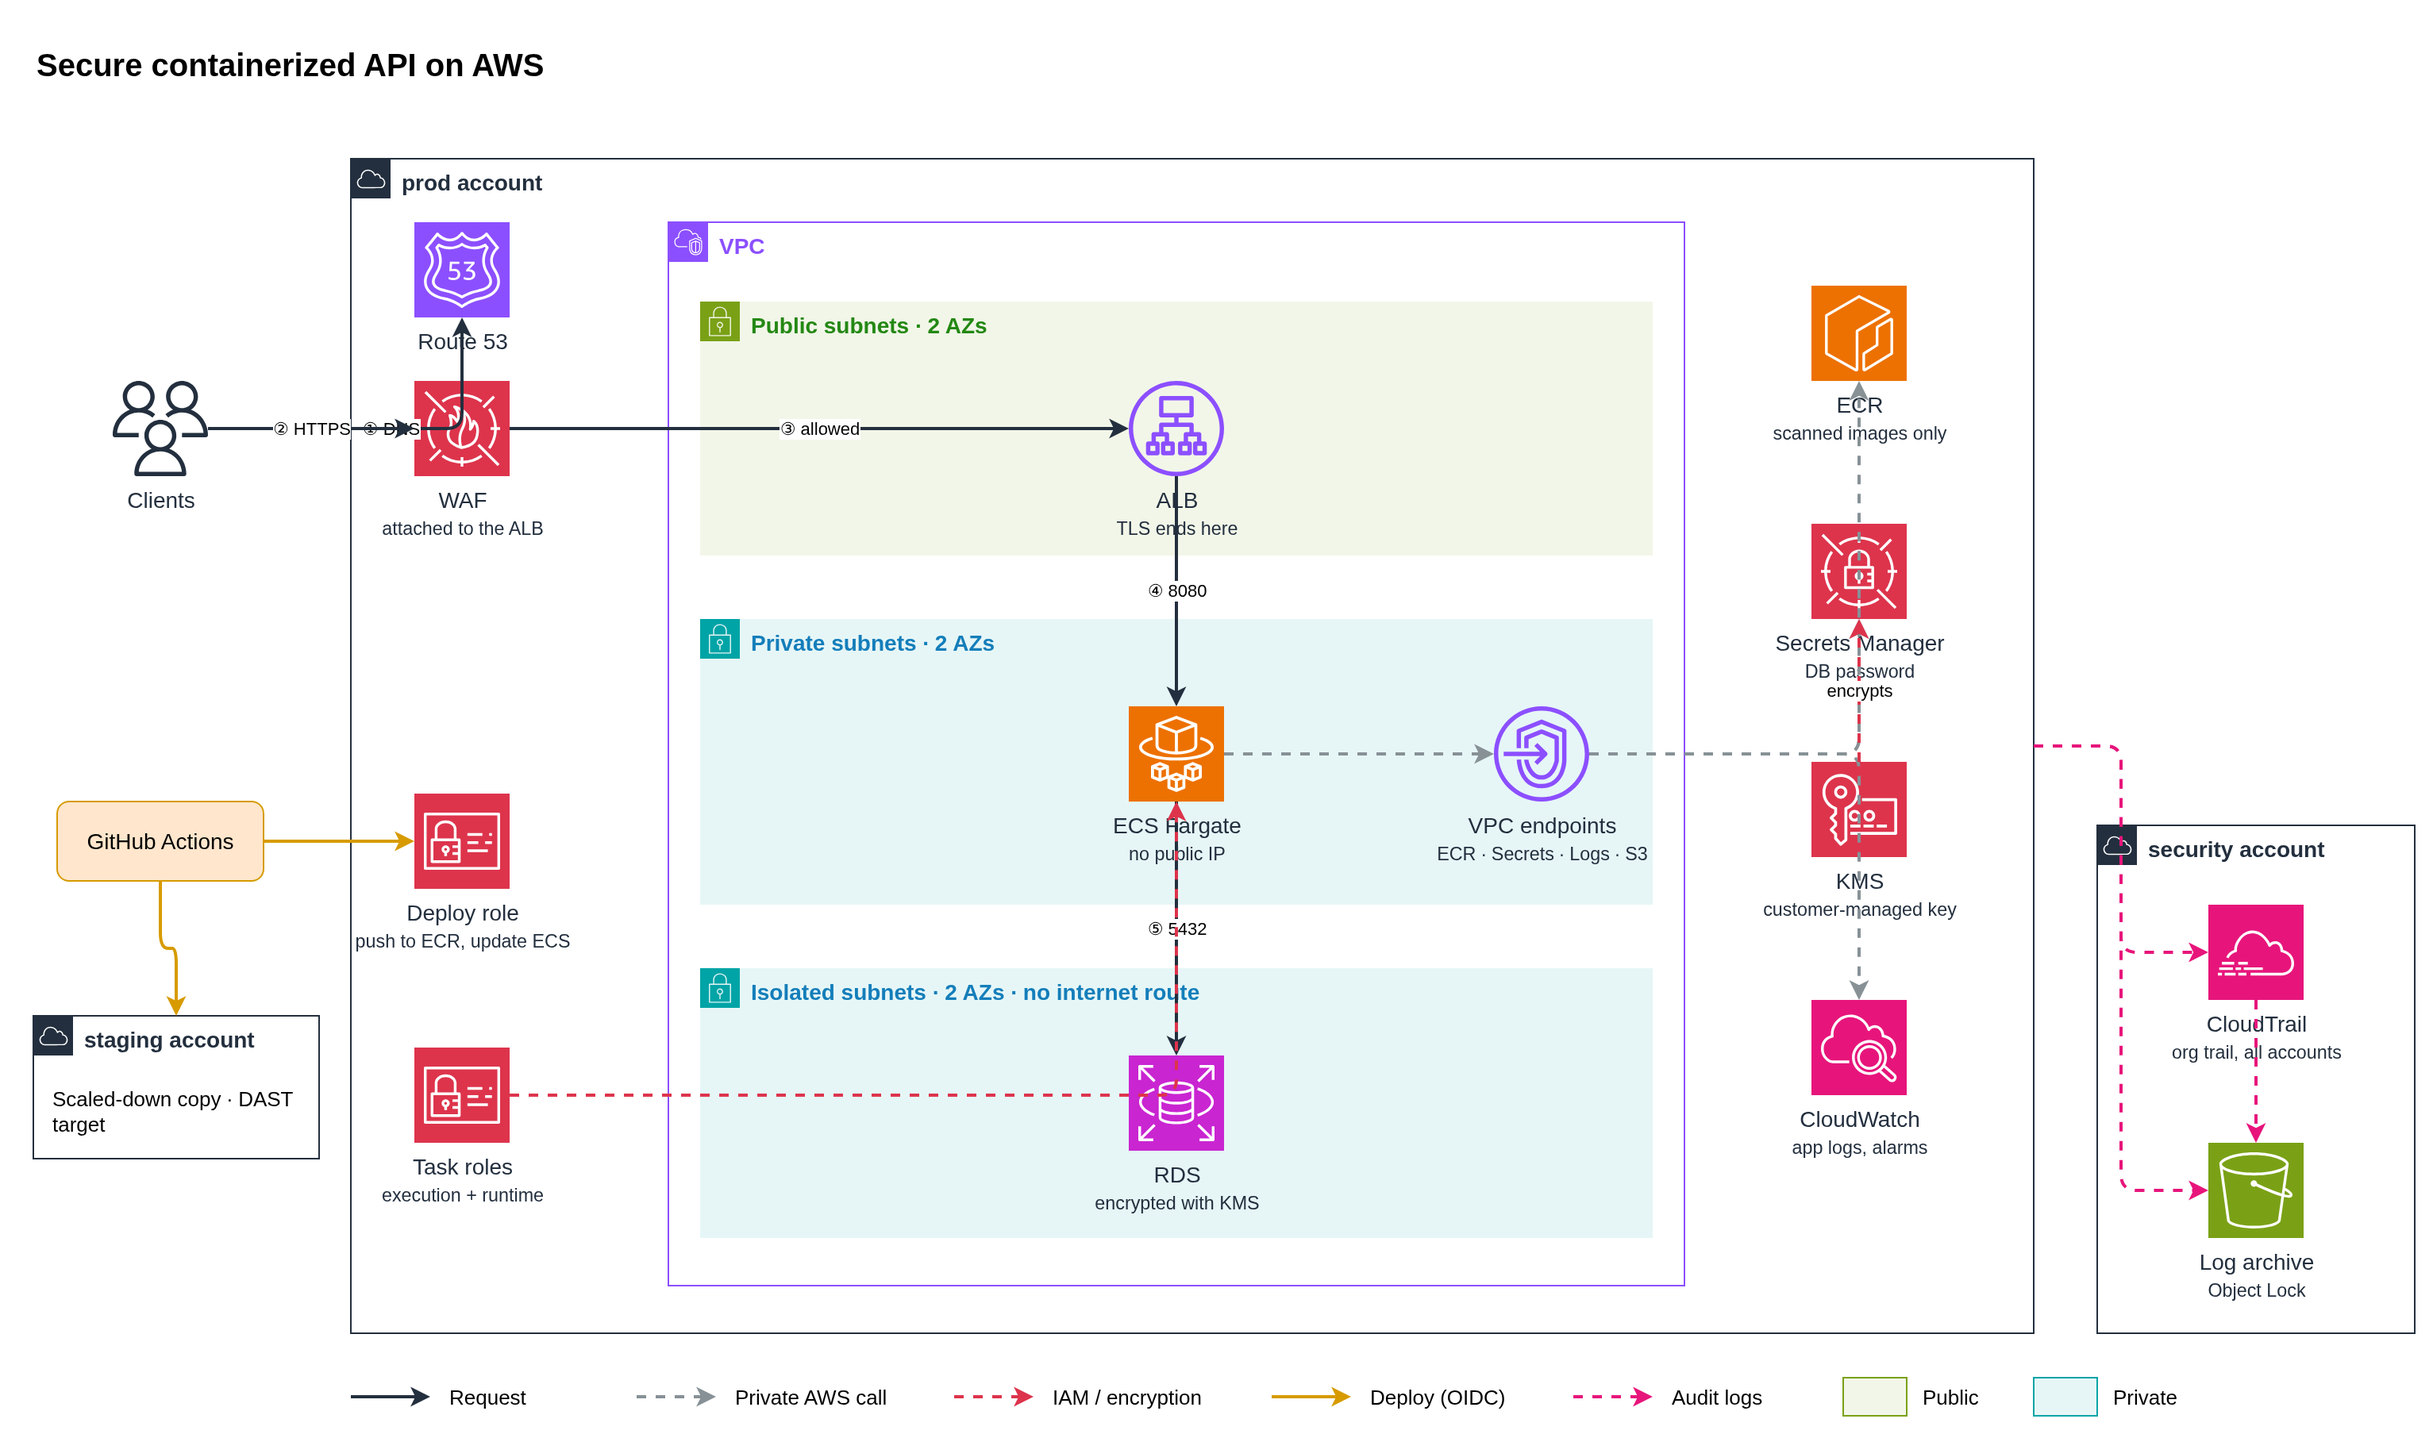
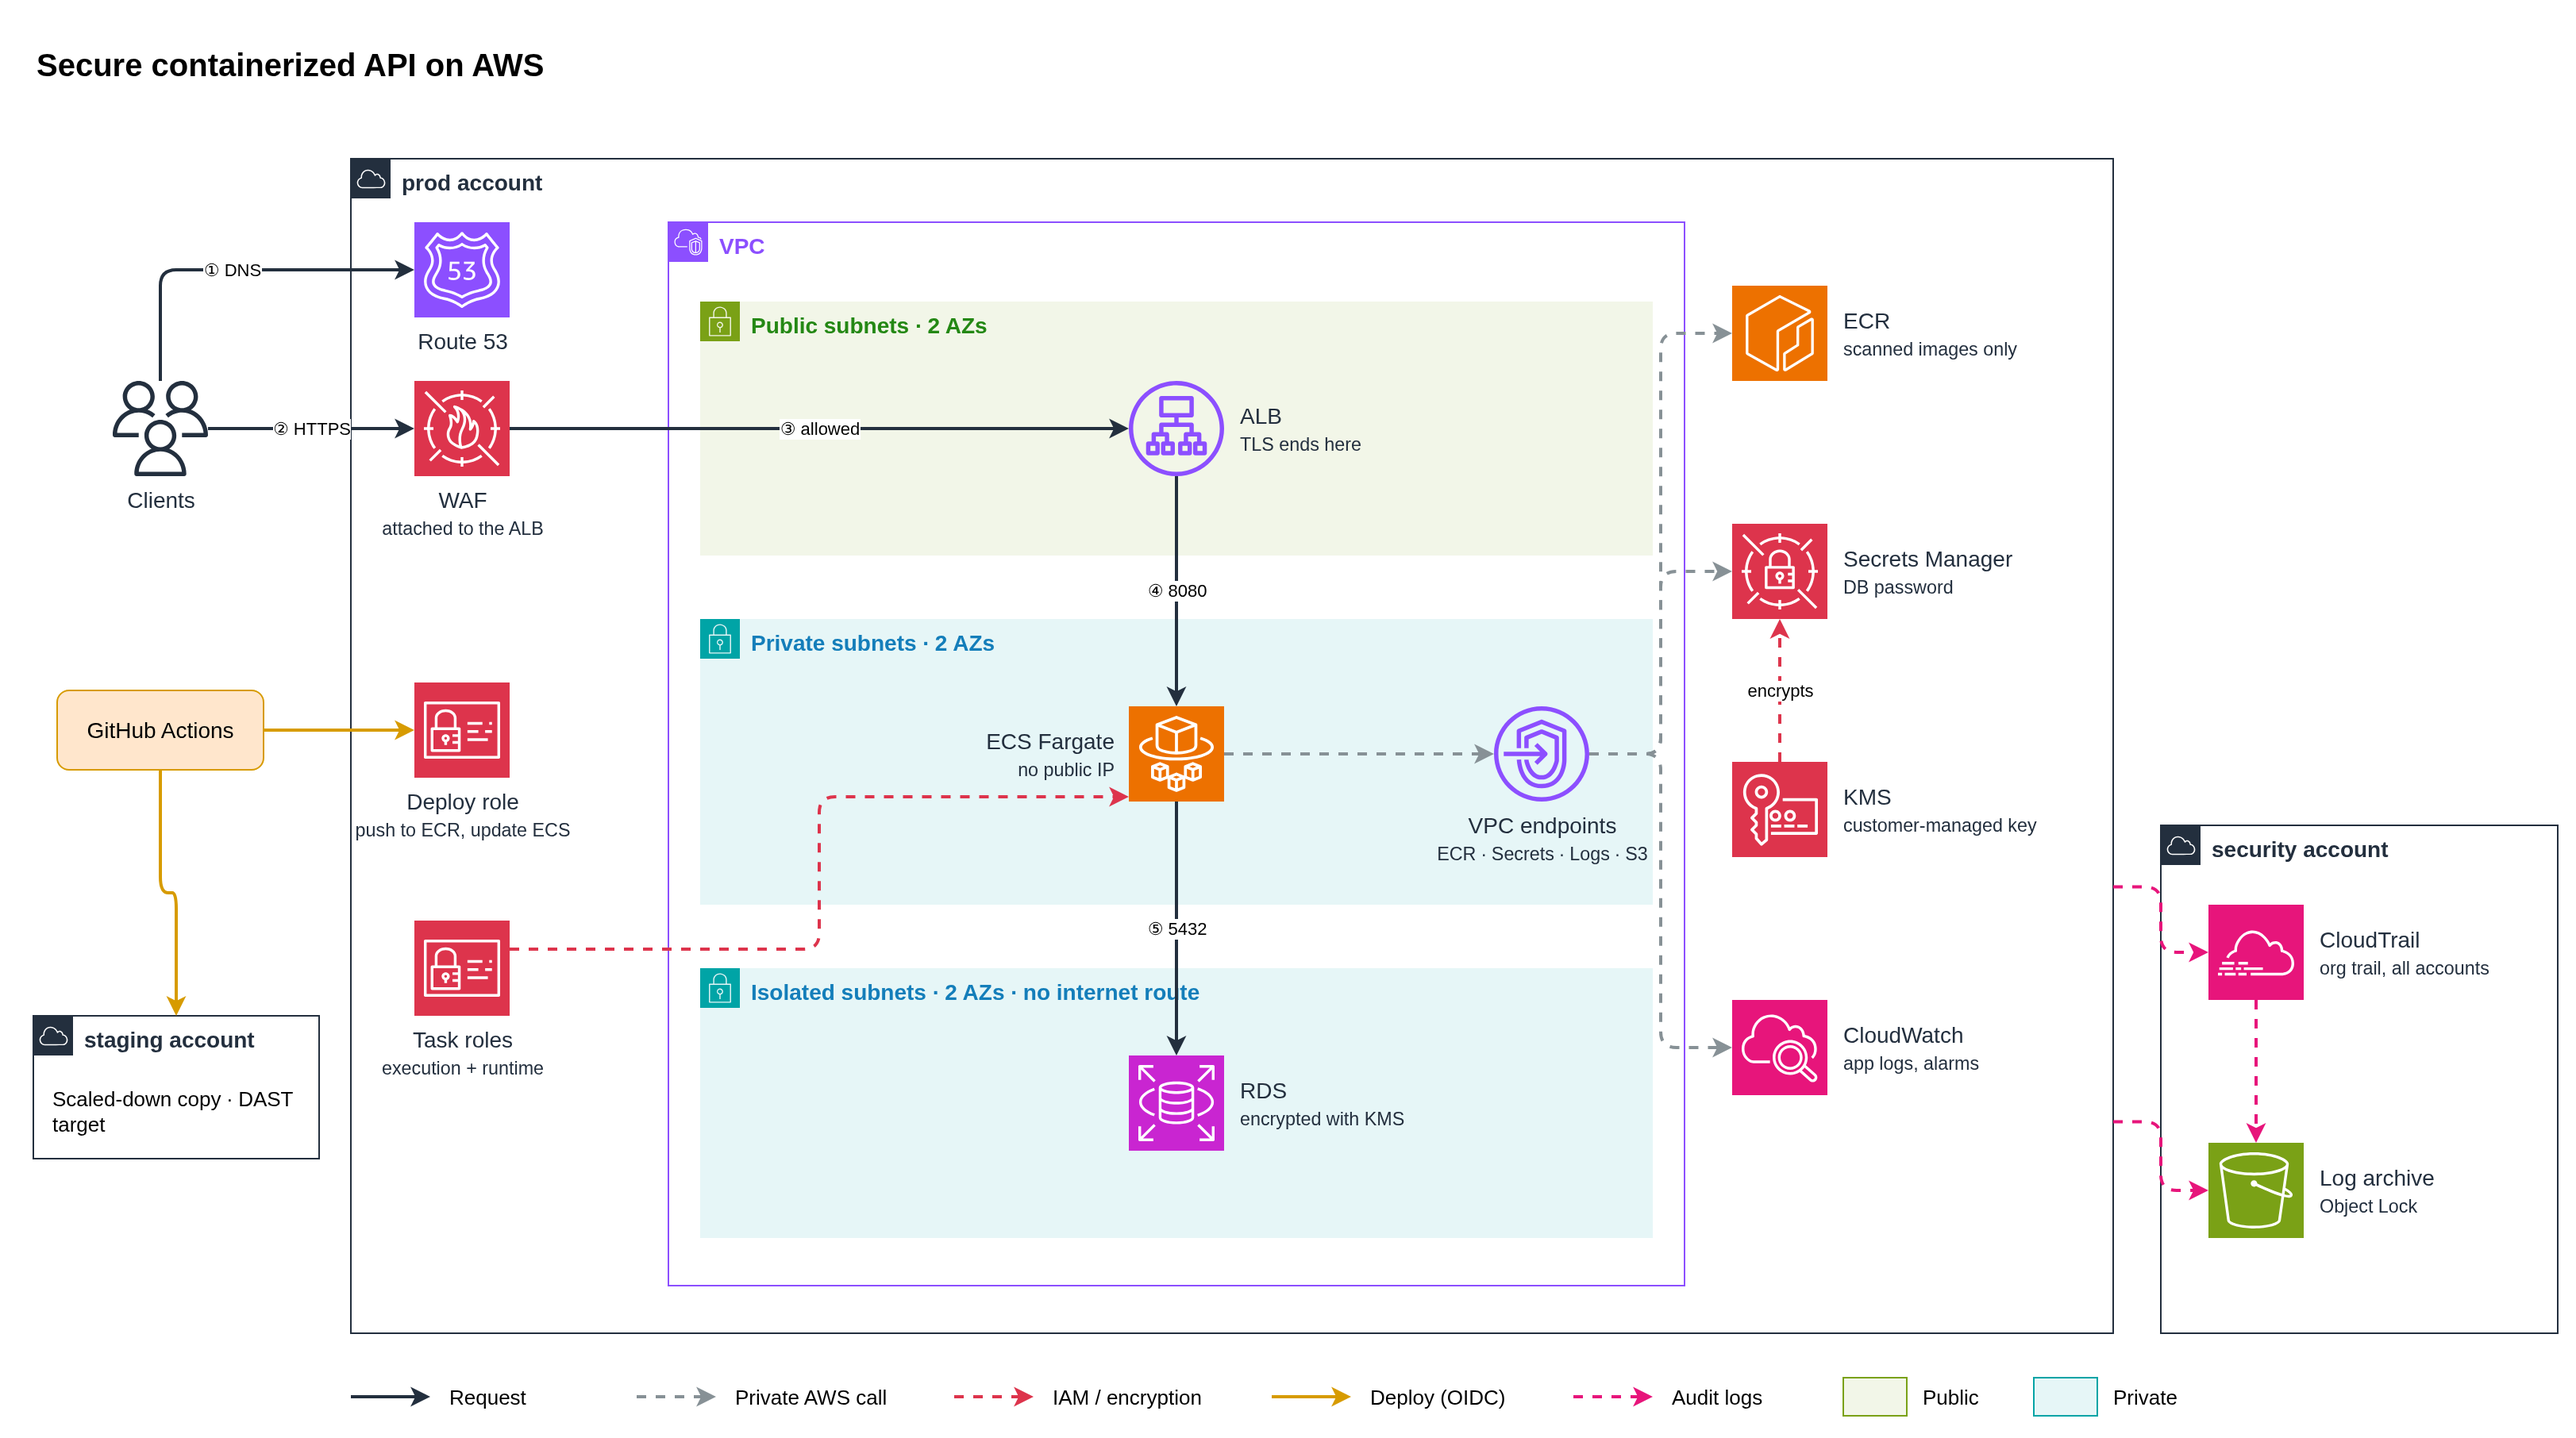
docs: tidy architecture diagram, clearer Task 5 steps

diff --git a/security/incident-response.md b/security/incident-response.md
@@ -5,7 +5,7 @@
 1. I check the finding first. Is the package really in the image, and is our version really affected?
 2. I check if it matters for us. Does the app actually use that library? Is the service reachable from the internet?
 3. I look for a patched base image. If there is one, we bump it, rebuild and rescan. That's usually quicker than any discussion.
-4. If there's no patch yet, I look at other options: a different base image, or reducing exposure (WAF rule, tighter network access) until the patch comes out.
+4. If there's no patch yet, I check whether our existing controls (WAF rules, network rules) already block the known exploit. If they don't, I add a rule for it, or move to a base image that isn't affected.
 5. The app working fine doesn't change the decision. Vulnerabilities usually don't break anything until someone uses them.
 6. If we can show it can't be exploited here, it can ship with an exception: written evidence, an owner, an expiry date, and approval from the security lead, not from the team that wants to ship. When it expires the pipeline blocks again.
 7. If it can be exploited and there's no fix or workaround, the release waits.
@@ -27,14 +27,16 @@ This happened in this repo. Trivy found a Critical in `libssl3` inside the distr
 
 ## Scenario C: CloudTrail shows unexpected API calls from the pipeline's IAM principal
 
-Contain first, then investigate.
+**First, check if it's expected**
+1. Find who owns the role, a team or a person, and ask them right away: did they run this, and did they expect it? A new deploy step or a manual run can explain it.
+2. If they can explain it, I confirm with the run logs and close it. If nobody can, I treat it as a compromise.
 
-**Containment**
-1. Stop the principal from doing more. If it's an access key, deactivate it (don't delete it, it's evidence). If it's a role, revoke its active sessions, which adds a deny for every session issued before now.
+**Contain**
+1. Stop the principal from doing more. If it's an access key, deactivate it (don't delete it, it's evidence). If it's a role, revoke its active sessions.
 2. Pause deployments so the pipeline can't get new credentials while we look.
 3. If the calls created anything (new users, keys, roles, resources), disable those too.
 
-**Investigation**
+**Investigate**
 1. Keep the evidence safe. CloudTrail should go to a separate log account where prod admins can't delete it.
 2. List everything that principal did in the time window: which API calls, which regions, from which IP.
 3. Look for signs of persistence first: new IAM users, access keys, roles, or changed policies. Then look for data access, like secrets or S3 reads.
